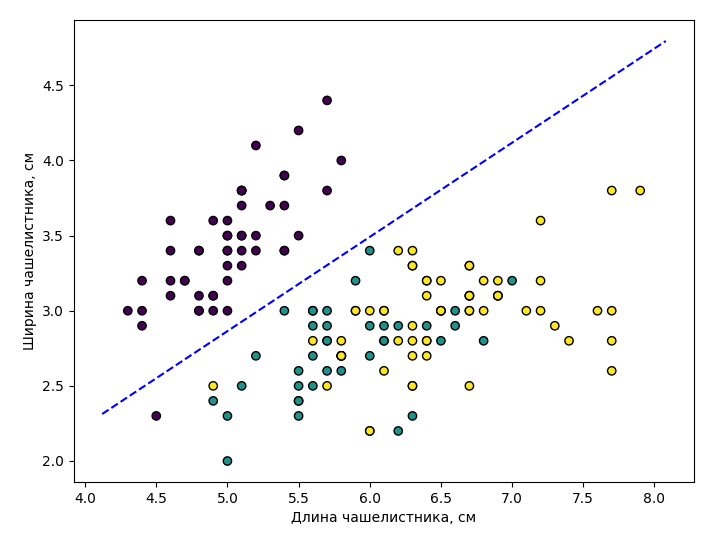
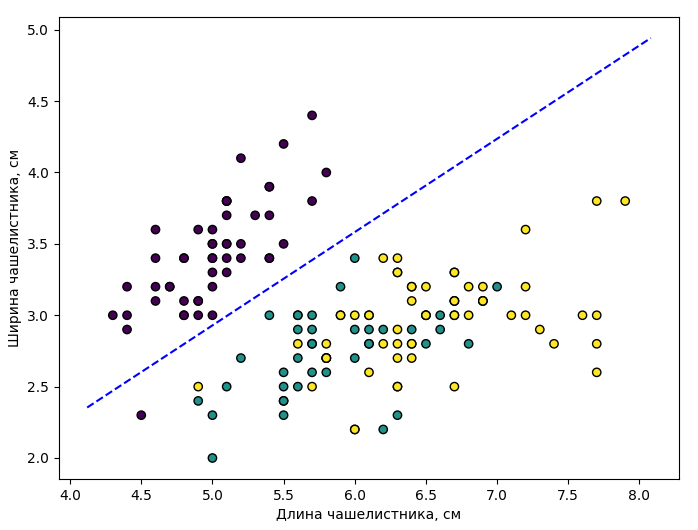
Add the "linear-classifier.py" script

diff --git a/manuscript/resources/code/ArtificialIntelligence/linear-classifier.py b/manuscript/resources/code/ArtificialIntelligence/linear-classifier.py
@@ -1,0 +1,45 @@
+#!/usr/bin/env python3
+
+from sklearn import datasets
+from sklearn.linear_model import SGDClassifier
+import copy
+import matplotlib.pyplot as plt
+
+# Загрузить набор данных ирисы Фишера
+iris = datasets.load_iris()
+x = iris.data[:, :2]
+y = iris.target
+
+# Объединить классы ирисов с номерами 1 и 2 в один класс
+y_setosa = copy.copy(y)
+y_setosa[y_setosa > 0] = 1
+
+# Создать объект классификатора для логистической регрессии
+sgdc = SGDClassifier(loss='log', random_state=42)
+sgdc.fit(x, y_setosa)
+
+# Вывести ошибку обучения
+score = sgdc.score(x, y_setosa)
+print("Score: ", score)
+
+# Подготовить объект Figure
+plt.figure(figsize=(8, 6))
+plt.xlabel("Длина чашелистника, см")
+plt.ylabel("Ширина чашелистника, см")
+
+# Нарисовать все точки из обучающего набора
+plt.scatter(x[:, 0], x[:, 1], c=y, edgecolor="k")
+
+# Нарисовать границу между классами
+x_min, x_max = plt.xlim()
+y_min, y_max = plt.ylim()
+coef = sgdc.coef_
+intercept = sgdc.intercept_
+
+def calculate_y(x):
+  return (-(x * coef[0, 0]) - intercept[0]) / coef[0, 1]
+
+plt.plot([x_min, x_max], [calculate_y(x_min), calculate_y(x_max)], ls="--", color="blue")
+
+# Открыть окно с графиком
+plt.show()

diff --git a/manuscript/resources/code/ArtificialIntelligence/k-mean-clustering.py b/manuscript/resources/code/ArtificialIntelligence/k-mean-clustering.py
@@ -4,19 +4,26 @@ from sklearn.datasets import make_blobs
 from sklearn.cluster import KMeans
 import matplotlib.pyplot as plt
 
+# Сгенерировать набор точек
 X, y_true = make_blobs(n_samples=300, centers=50,
                        cluster_std=2.00, random_state=0,
                        center_box=(4, 50))
 
+# Создать объект для кластеризации точек методом k-средних
 kmeans = KMeans(n_clusters=4, random_state=0)
 kmeans.fit(X)
 
+# Подготовить объект Figure
 plt.figure(figsize=(8, 6))
+plt.xlabel("Просмотры категории автозапчасти")
+plt.ylabel("Просмотры категории велозапчасти")
+
+# Нарисовать все точки сгенерированного набора
 plt.scatter(X[:,0], X[:,1], c=kmeans.labels_.astype(float))
 
+# Нарисовать центры кластеризации
 centers = kmeans.cluster_centers_
 plt.scatter(centers[:, 0], centers[:, 1], c='black', s=200, alpha=0.5);
 
-plt.xlabel("Просмотры категории автозапчасти")
-plt.ylabel("Просмотры категории велозапчасти")
+# Открыть окно с графиком
 plt.show()

diff --git a/manuscript/appendix.md b/manuscript/appendix.md
@@ -23,7 +23,13 @@
 
 #### 3.3. Кластеризация пользователей онлайн магазина методом k-средних
 
-Скрипт `k-mean-clustering.py` из листинга 5-3 демонстрирует генерацию точек для обучающего набора данных, вызов алгоритма кластеризации методом k-средних и отображение результата его работы на графике.
+Скрипт `k-mean-clustering.py` из листинга 5-3 демонстрирует следующие действия:
+
+1. Сгенерировать случайный набор точек в двумерном пространстве.
+
+2. Кластеризация точек методом k-средних.
+
+3. Вывод результата кластеризации в виде графике.
 
 {caption: "Листинг 5-3. Скрипт кластеризации методом k-средних", line-numbers: true, format: Python}
 ![`k-mean-clustering.py`](code/ArtificialIntelligence/k-mean-clustering.py)
@@ -36,38 +42,38 @@
 
 * `pyplot` из библиотеки `matplotlib` — это интерфейс для построения графиков.
 
-Скрипт начинается с вызова функции [`make_blobs`](https://scikit-learn.org/stable/datasets/sample_generators.html#sample-generators) из модуля `datasets`. Эта функция генерирует кластеры точек на двумерном пространстве признаков. Координаты центров кластеров случайны. Точки каждого кластера находятся на случайном расстоянии от его центра. Эти расстояния соответствуют [нормальному распределению вероятностей](https://ru.wikipedia.org/wiki/Нормальное_распределение).
+Скрипт начинается с вызова функции [`make_blobs`](https://scikit-learn.org/stable/datasets/sample_generators.html#sample-generators) из модуля `datasets`. Эта функция генерирует кластеры точек на двумерном пространстве признаков. Координаты центров кластеров выбираются случайно. Точки каждого кластера находятся на случайном расстоянии от его центра. Эти расстояния соответствуют [нормальному распределению вероятностей](https://ru.wikipedia.org/wiki/Нормальное_распределение).
 
-Результат генерации кластеров точек сохраняется в переменной `X`. Эта переменная представляет собой массив. Каждый его элемент соответствует одной точке. Точка представляет собой массив из двух чисел. Первое число — координата по оси X, а вторая — по оси Y.
+Результат генерации кластеров точек сохраняется в переменной `X`. Эта переменная представляет собой массив. Каждый его элемент соответствует одной точке. Точка представляет собой пару чисел: координаты по оси X и Y.
 
 Далее скрипт создаёт объект класса [`KMeans`](https://scikit-learn.org/stable/modules/clustering.html#k-means) из модуля `cluster`. Этот объект сохраняется в переменной `kmeans`. В классе `KMeans` реализован алгоритм обучения методом k-средних.
 
 В нашем случае конструктор класса `KMeans` принимает только два входных параметра:
 
-* `n_clusters` — число кластеров, которые должна получить обучаемая модель.
+* `n_clusters` — число кластеров, которые должна найти обучаемая модель.
 
-* `random_state` — параметр генератора случайных чисел. Если присвоить ему целое число, то алгоритм обучения будет выдавать один и тот же результат для того же набора данных при перезапуске скрипта.
+* `random_state` — параметр генератора случайных чисел. Если присвоить ему целое число, то алгоритм обучения будет выдавать одинаковый результат для одного и того же набора данных при перезапуске скрипта.
 
-После создания объекта класса `KMeans` скрипт вызывает его метод `fit` с параметром `X`. Он выполняет алгоритм обучения на наборе данных, который хранится в переменной `X`.
+После создания объекта класса `KMeans` скрипт вызывает его метод `fit` с параметром `X`. Этот метод выполняет алгоритм обучения на наборе данных, который хранится в переменной `X`.
 
 Далее скрипт строит график с результатами обучения. Для этого из модуля `pyplot` вызываются следующие функции:
 
 1. `figure` — конструктор глобального объекта класса `Figure`. Он хранит все видимые графические элементы.
 
-2. `scatter` — рисует набор точек на плоскости.  Функция принимает следующие параметры:
+2. `xlabel` — указывает надпись для оси X.
+
+3. `ylabel` — указывает надпись для оси Y.
+
+4. `scatter` — рисует набор точек на плоскости.  Функция принимает следующие параметры:
    * Первый параметр — это массив с координатами точек по оси X.
    * Второй параметр — массив с координатами точек по оси Y.
-   * `c` — массив со списком цветов для отрисовки точек.
+   * `c` — массив со списком цветов для каждой точки.
    * `s` — размер точек.
    * `alpha` — уровень прозрачности от 0 (прозрачный) до 1 (непрозрачный).
 
-3. `xlabel` — указывает надпись для оси X.
-
-4. `ylabel` — указывает надпись для оси Y.
-
 5. `show` — вывести на экран всё содержимое всех объектов класса `Figure`.
 
-Первый вызов функции `scatter` принимает такие параметры:
+Первый вызов функции `scatter` рисует все точки из сгенерированного набора. Функция принимает следующие параметры:
 
 * `X[:,0]` — первые числа всех элементов массива `X`. Эти числа соответствуют координатам точек по оси X.
 
@@ -75,7 +81,7 @@
 
 * `c=kmeans.labels_.astype(float)` — массив, каждый элемент которого соответствует точке из обучающего набора данных. Значение элемента — номер кластера к которому алгоритм обучения отнёс соответствующую точку.
 
-Второй вызов функции `scatter` принимает следующие параметры:
+Второй вызов функции `scatter` рисует центры кластеризации, которые нашёл алгоритм k-средних. Функция принимает следующие параметры:
 
 * `centers[:, 0]` — координаты X центров всех кластеров, которые нашёл алгоритм обучения.
 
